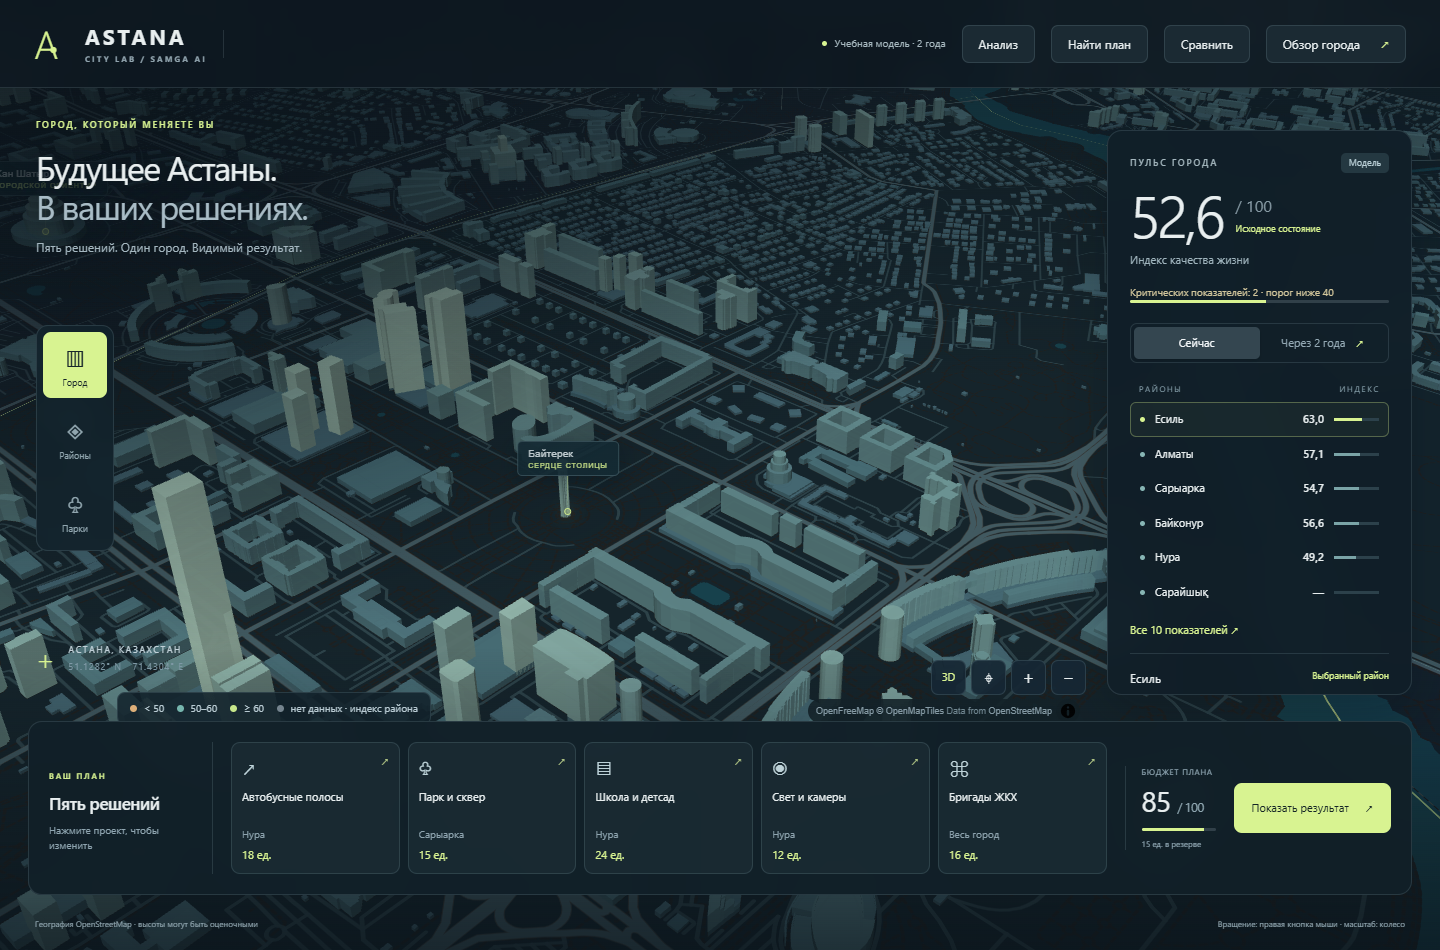
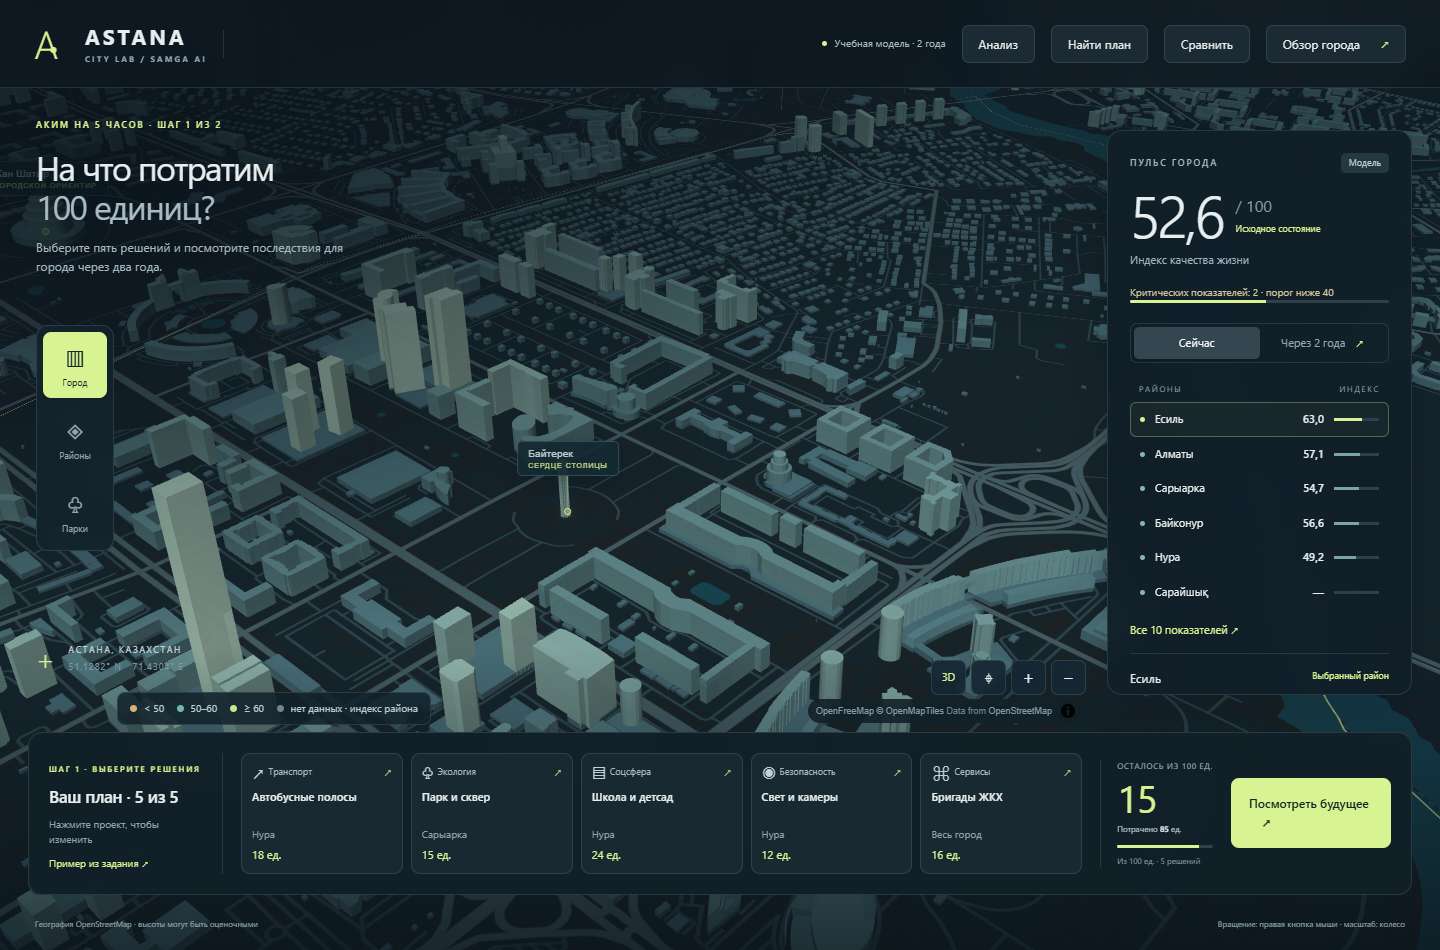
feat(ux): make budget choice and future comparison the main city flow

diff --git a/demos/astana-city/index.html b/demos/astana-city/index.html
@@ -16,7 +16,7 @@
     <button id="insights" class="header-button">Анализ</button><button id="strategy" class="header-button">Найти план</button><button id="compare" class="header-button">Сравнить</button><button id="overview" class="header-button">Обзор города <span>↗</span></button>
   </header>
   <main>
-    <section class="intro"><div class="eyebrow">ГОРОД, КОТОРЫЙ МЕНЯЕТЕ ВЫ</div><h1>Будущее Астаны.<br><span>В ваших решениях.</span></h1><p>Пять решений. Один город. Видимый результат.</p></section>
+    <section class="intro"><div class="eyebrow">АКИМ НА 5 ЧАСОВ · ШАГ 1 ИЗ 2</div><h1>На что потратим<br><span>100 единиц?</span></h1><p>Выберите пять решений и посмотрите последствия для города через два года.</p></section>
     <nav class="layer-bar" aria-label="Слои карты">
       <button class="layer active" data-layer="city" aria-pressed="true"><span>▥</span>Город</button>
       <button class="layer" data-layer="districts" aria-pressed="false"><span>◈</span>Районы</button>
@@ -37,10 +37,10 @@
     <div class="view-tools"><button id="tilt" aria-pressed="true" title="Переключить плоскую и объёмную карту">3D</button><button id="home" aria-label="Вернуться к Байтереку" title="К центру города">⌖</button><button id="zoom-in" aria-label="Приблизить">+</button><button id="zoom-out" aria-label="Отдалить">−</button></div>
     <div class="map-status" id="map-status" role="status">Загружаем городскую геометрию…</div>
     <section class="scenario">
-      <div class="scenario-lead"><span class="eyebrow">ВАШ ПЛАН</span><h2>Пять решений</h2><p>Нажмите проект, чтобы изменить</p></div>
+      <div class="scenario-lead"><span class="eyebrow">ШАГ 1 · ВЫБЕРИТЕ РЕШЕНИЯ</span><h2>Ваш план · 5 из 5</h2><p>Нажмите проект, чтобы изменить</p><button id="load-source" class="example-button">Пример из задания ↗</button></div>
       <div class="decisions" id="decisions"></div>
-      <div class="budget"><span>БЮДЖЕТ ПЛАНА</span><strong id="budget">85 <small>/ 100</small></strong><div class="budget-track"><i></i></div><span id="budget-rest"></span></div>
-      <button id="apply" class="apply">Показать результат <span>↗</span></button>
+      <div class="budget"><span>ОСТАЛОСЬ ИЗ 100 ЕД.</span><strong id="budget-left">15</strong><span class="budget-spent">Потрачено <b id="budget">85</b> ед.</span><div class="budget-track"><i></i></div><span id="budget-rest"></span></div>
+      <button id="apply" class="apply">Посмотреть будущее <span>↗</span></button>
     </section>
   </main>
   <footer><span>География OpenStreetMap · высоты могут быть оценочными</span><span>Вращение: правая кнопка мыши · масштаб: колесо</span></footer>

diff --git a/demos/astana-city/simulator.css b/demos/astana-city/simulator.css
@@ -8,3 +8,19 @@ dialog{width:min(940px,calc(100vw - 40px));max-height:calc(100dvh - 64px);paddin
 @media(min-width:851px){.panel{max-height:calc(100dvh - 355px)}}@media(min-width:851px) and (min-height:900px){.panel{max-height:calc(100dvh - 385px)}}.map-legend{bottom:225px}.map-caption{bottom:270px}
 
 @media(max-width:600px){.layer-bar{flex-direction:row;gap:4px;padding:4px;top:270px}.layer{width:36px}.layer>span{font-size:18px}}
+
+/* Keep the budget decision in sight; the progress track shows money already allocated. */
+.intro p{max-width:310px;line-height:1.6}.scenario-lead{min-width:155px}.scenario-lead p{max-width:150px}.example-button{display:block;margin-top:9px;padding:0;background:transparent;color:var(--accent);font-size:10px;text-align:left}.example-button:hover{text-decoration:underline}.decision-top{align-items:center;gap:4px}.decision-group{font-size:9px;color:#a5bac2;flex:1;white-space:nowrap;overflow:hidden;text-overflow:ellipsis}.decision-icon{margin-bottom:0;font-size:17px;line-height:1}.decision-name{margin-top:8px;font-weight:600}.budget{min-width:108px}.budget>strong{font-size:38px;line-height:1.1;margin:5px 0 4px;color:var(--accent)}.budget-spent{font-size:10px;letter-spacing:0!important;color:#aec1c9!important}.budget-spent b{font-weight:500;color:#e8eeef}.budget-track{margin-top:10px}#budget-rest{color:#849ca7!important}.apply{font-weight:600;font-size:12px}
+@media(max-width:1150px){.decision-group{font-size:8px}.decision-name{font-size:10px}}
+@media(max-width:850px){.budget{min-width:0}.budget>strong{font-size:28px;margin:0}.budget-spent{white-space:nowrap}.decision-group{margin-top:3px}.scenario-lead{display:none}}
+@media(max-width:600px){.budget>span:first-child{display:block;font-size:8px;line-height:1.15}.budget{display:grid;grid-template-columns:auto auto;column-gap:6px;row-gap:1px;align-items:center}.budget>span:first-child{grid-column:1/-1}.budget>strong{grid-row:2}.budget-spent{grid-row:2;font-size:9px;white-space:normal}.scenario{grid-template-columns:130px 1fr}.apply{font-size:11px}}
+
+@media(max-width:850px){
+ .scenario-lead{display:flex;grid-column:1/-1;min-width:0;align-items:center;justify-content:space-between;gap:8px}
+ .scenario-lead .eyebrow,.scenario-lead h2,.scenario-lead p{display:none}
+ .scenario-lead::before{content:"ПЯТЬ РЕШЕНИЙ";font-size:9px;letter-spacing:1px;color:var(--accent);white-space:nowrap}
+ .example-button{margin:0;font-size:10px}
+ .panel{bottom:280px;max-height:calc(100dvh - 500px)}
+ .view-tools{bottom:285px}
+ .maplibregl-ctrl-bottom-right{bottom:275px}
+}

diff --git a/START-HERE.md b/START-HERE.md
@@ -11,12 +11,13 @@
 
 1. В исходном состоянии индекс города — 52,6. Внизу пять проектов на 85 из 100 единиц.
 2. Нажмите «Показать результат»: через два года индекс станет 55,7; один критический показатель останется.
-3. «Сравнить» → «Сохранить гипотезу». Этот план останется доступен для сравнения и восстановления, в том числе после перезагрузки.
-4. Нажмите карточку проекта. Выберите другой проект или район. Справа видны полный бюджет и изменение результата. До «Применить решение» исходный план сохраняется.
-5. Попытка совместить парк и школу в Нуре блокируется с объяснением. Превышение бюджета, повторы и остальные ограничения тоже проверяются.
-6. «Найти план» → «Устранить критические проблемы». Поиск найдёт план за 66 единиц, без критических показателей, с индексом 56,57. Он не применяется автоматически.
-7. Примените предложение и сравните с сохранённой гипотезой.
-8. «Анализ» открывает проверяемый разбор, первичные международные источники и статус ИИ. «Все 10 показателей» показывает детали выбранного района.
+3. Внизу крупно показан остаток бюджета: в стартовом плане 15 единиц. «Пример из задания» открывает план на 95 единиц: остаток 5, критических показателей 0. Перед применением виден и минус: балл слабейшего района становится немного ниже.
+4. «Сравнить» → «Сохранить гипотезу». Этот план останется доступен для сравнения и восстановления, в том числе после перезагрузки.
+5. Нажмите карточку проекта. Выберите другой проект или район. Справа видны полный бюджет и изменение результата. До «Применить решение» исходный план сохраняется.
+6. Попытка совместить парк и школу в Нуре блокируется с объяснением. Превышение бюджета, повторы и остальные ограничения тоже проверяются.
+7. «Найти план» → «Устранить критические проблемы». Поиск найдёт план за 66 единиц, без критических показателей, с индексом 56,57. Он не применяется автоматически.
+8. Примените предложение и сравните с сохранённой гипотезой.
+9. «Анализ» открывает проверяемый разбор, первичные международные источники и статус ИИ. «Все 10 показателей» показывает детали выбранного района.
 
 На телефоне проекты внизу прокручиваются горизонтально. Окна можно закрыть крестиком или Escape; район выбирается в панели либо на карте.
 

diff --git a/PROGRESS.md b/PROGRESS.md
@@ -153,3 +153,5 @@ Codex; конкретный вклад других участников в эт
 - Без новых runtime-зависимостей. Прежний аналитический экран по /analytics/.
 - 46 тестов модели/API/аналитики прошли; браузер проверил замену, отмену, конфликты, бюджет, сравнение, план за 66, факты, источники и мобильное редактирование.
 - Реальные тайлы и 3D проверены в Edge на 1440×950 и 390×844. Источники карты и ограничения сохранены.
+
+- Следующая UX-доработка: первый шаг «На что потратим 100 единиц?», крупный остаток бюджета, пример организаторов 95/100 с объяснением плюса и минуса, явная кнопка «Посмотреть будущее».

diff --git a/README.md b/README.md
@@ -15,7 +15,7 @@
 node backend/server.mjs
 ```
 
-Откройте http://127.0.0.1:3001. Карта, пять редактируемых решений, бюджет,
+Откройте http://127.0.0.1:3001. Карта, пять редактируемых решений, крупный остаток бюджета и пример на 95 из 100,
 сравнение гипотез, поиск стратегий и разбор результата работают вместе.
 Для 3D-географии нужны интернет и WebGL. Ключи для карты и расчёта не нужны.
 Живой ИИ подключается позже; до этого его состояние явно показано в интерфейсе.
